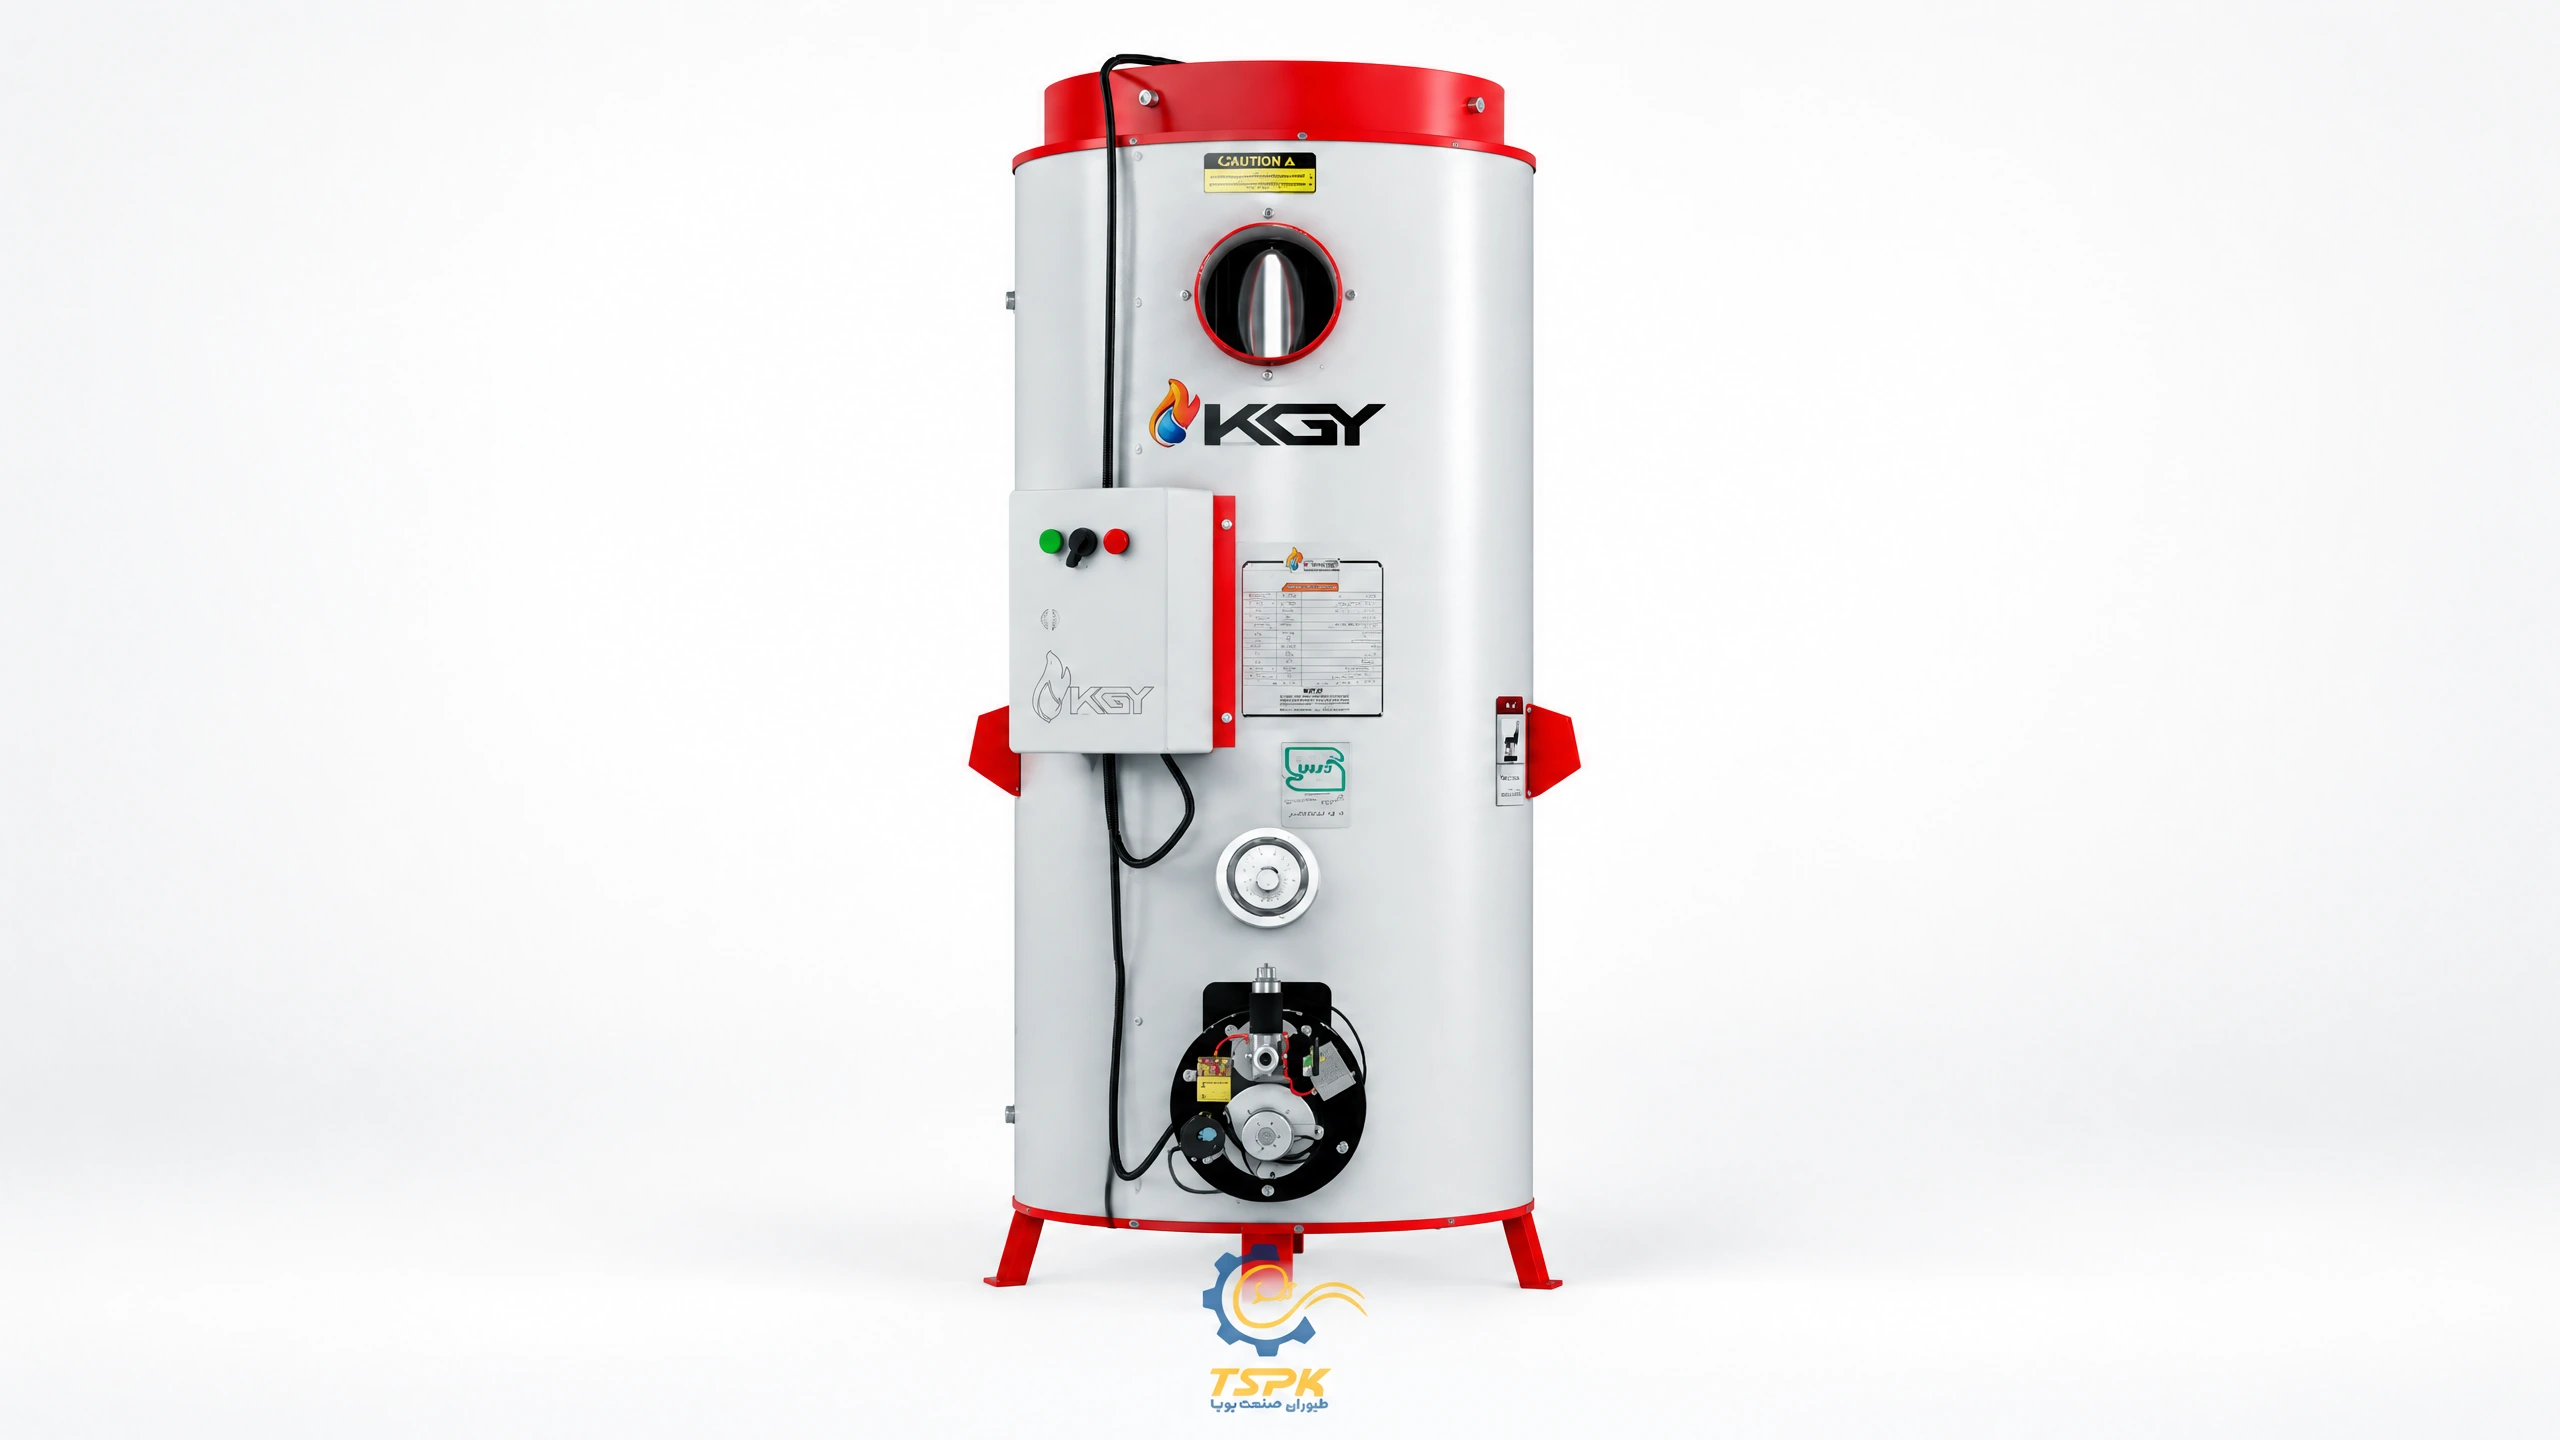
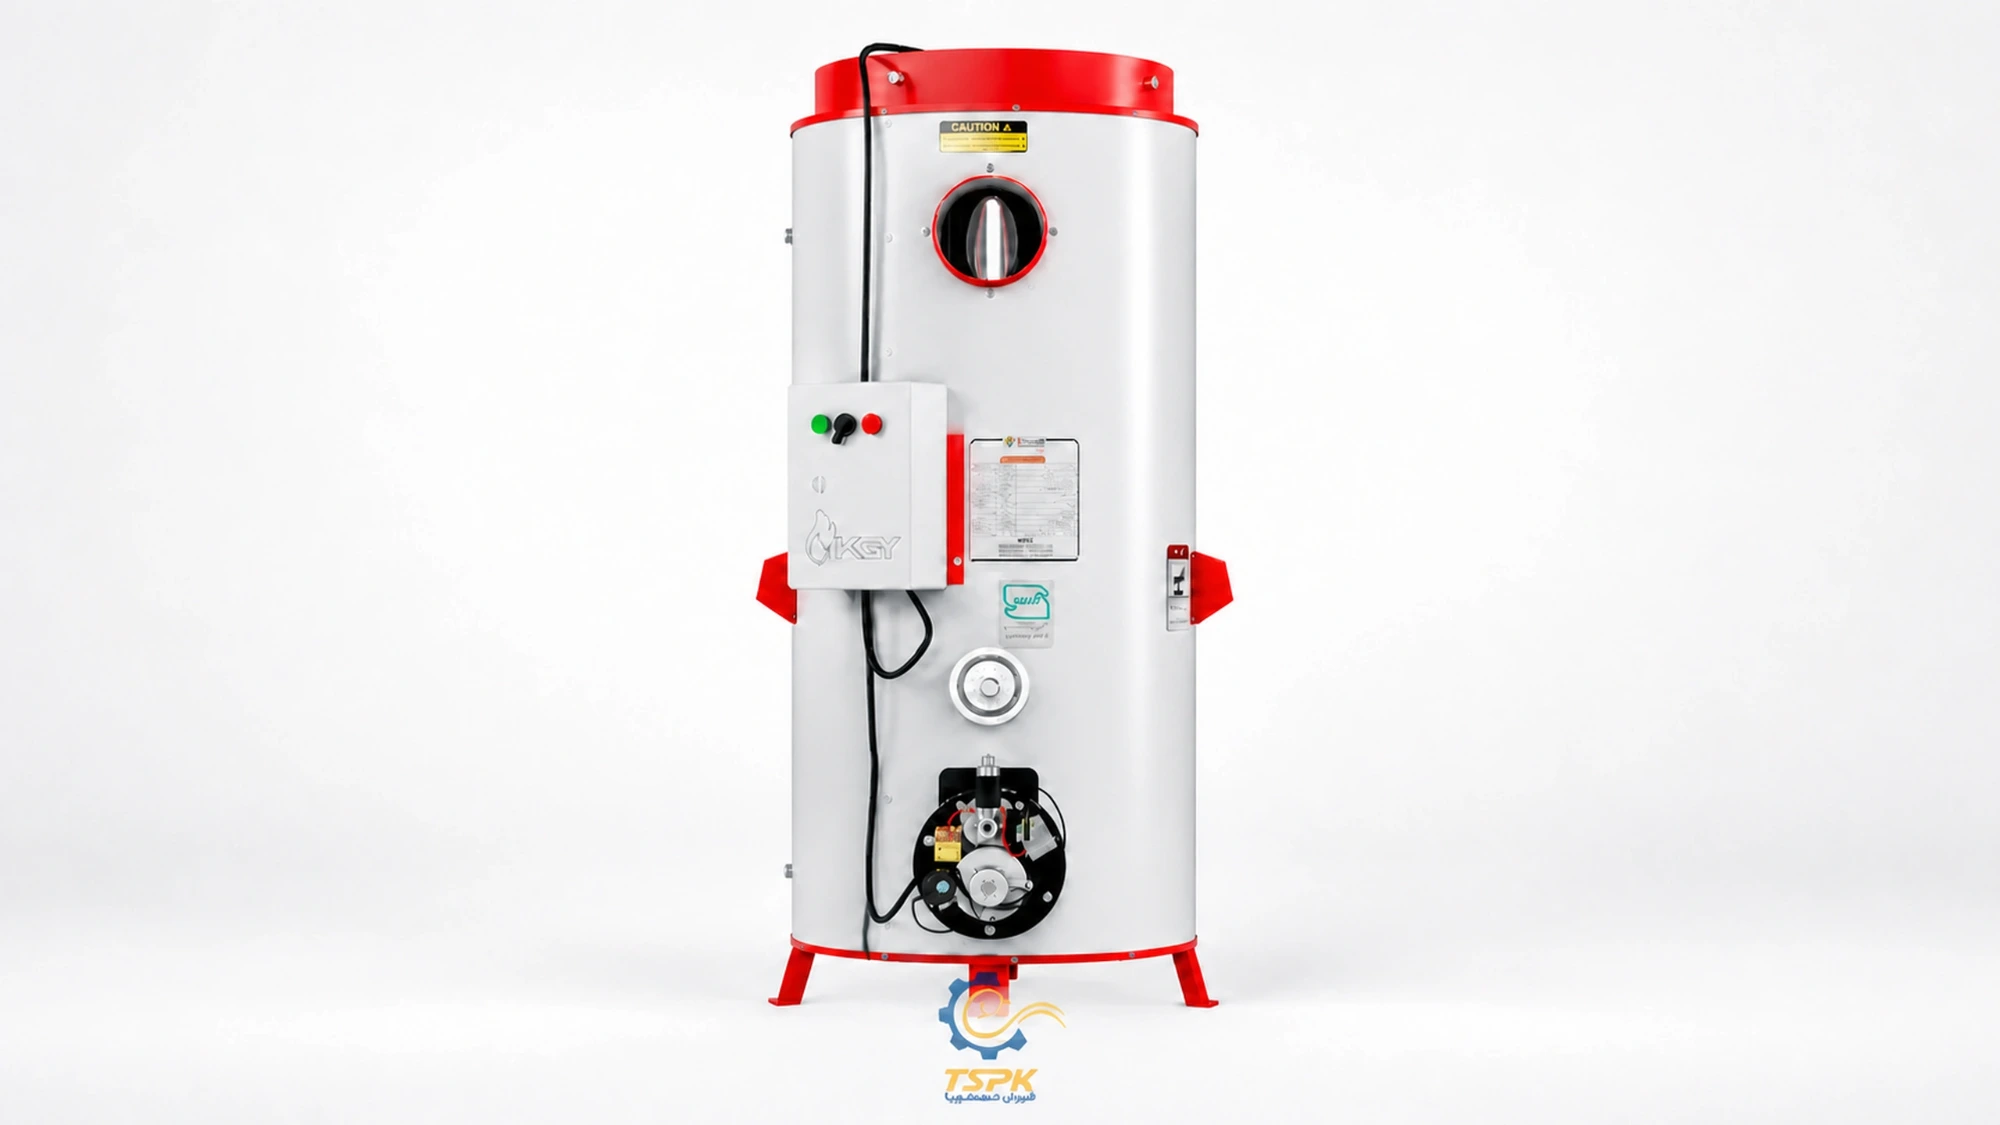
تصویر محصولات ۲، ۳، ۵ و ۱۱ عوض شد.
فن سیرکوله، هیتر ECO300، هیتر ECO150 و جتهیتر KG100 فایل جدید گرفتند و نسخهٔ کش تصاویر بهروز شد.

diff --git a/src/lib/mediaUrl.ts b/src/lib/mediaUrl.ts
@@ -1,5 +1,5 @@
 /** Bump when replacing files under /images (especially product WebP). */
-export const MEDIA_VERSION = "p4img-20260928";
+export const MEDIA_VERSION = "p4img-20261019";
 
 export function withMediaVersion(src: string | undefined | null): string {
   if (!src) return "";
